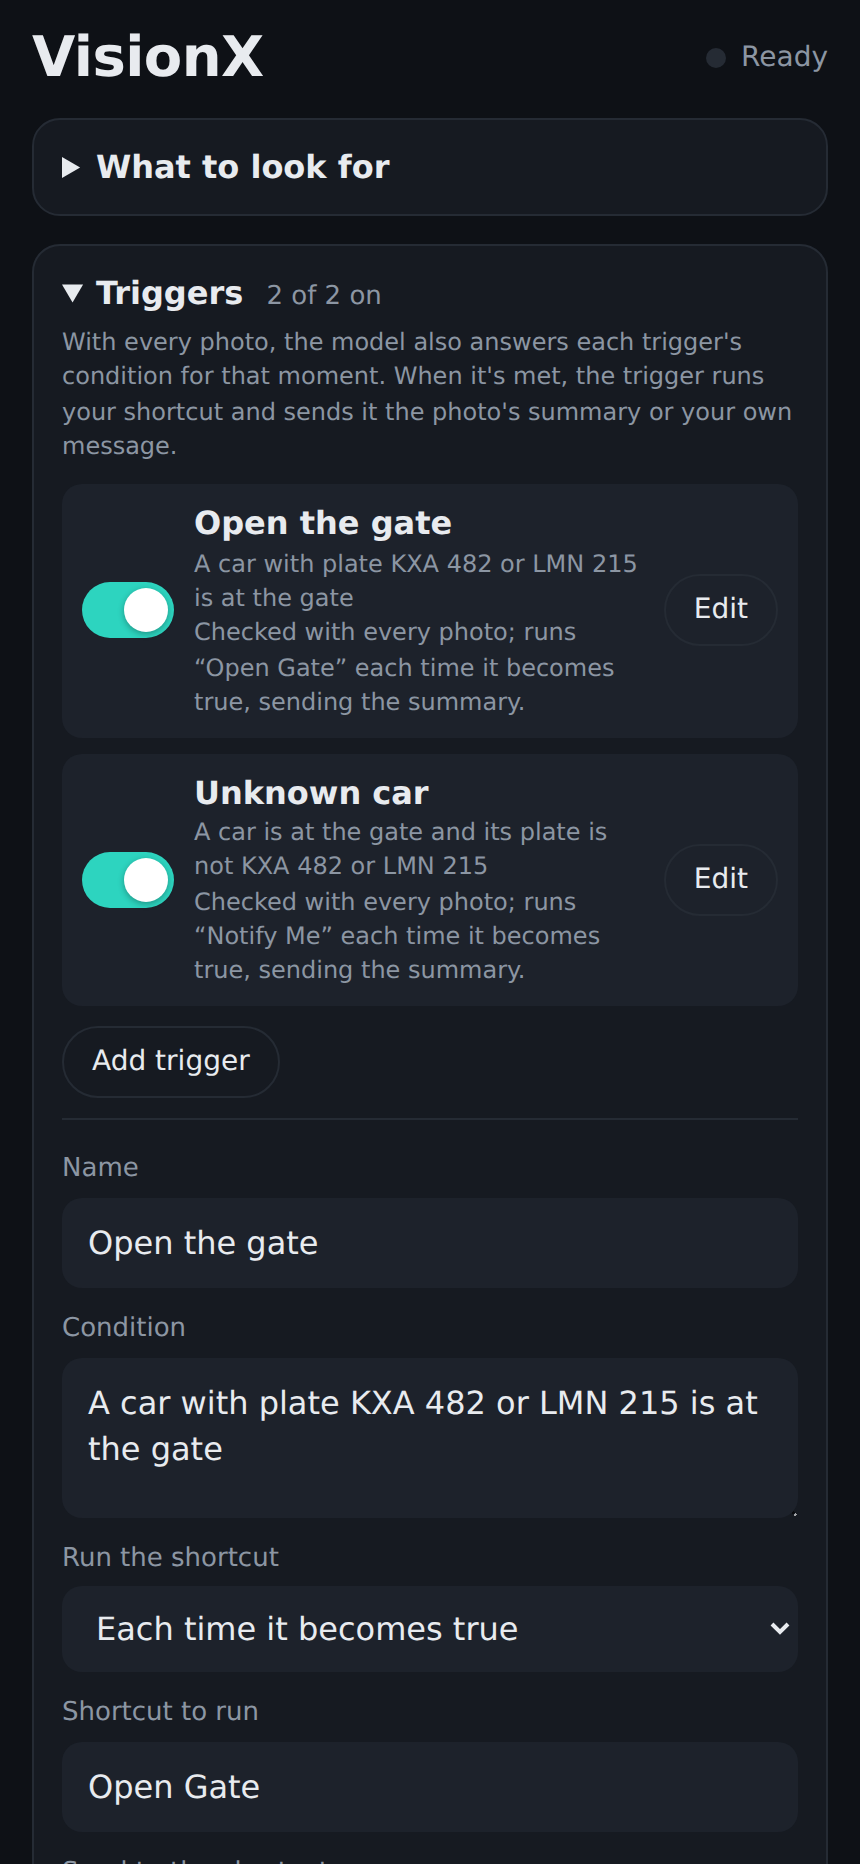
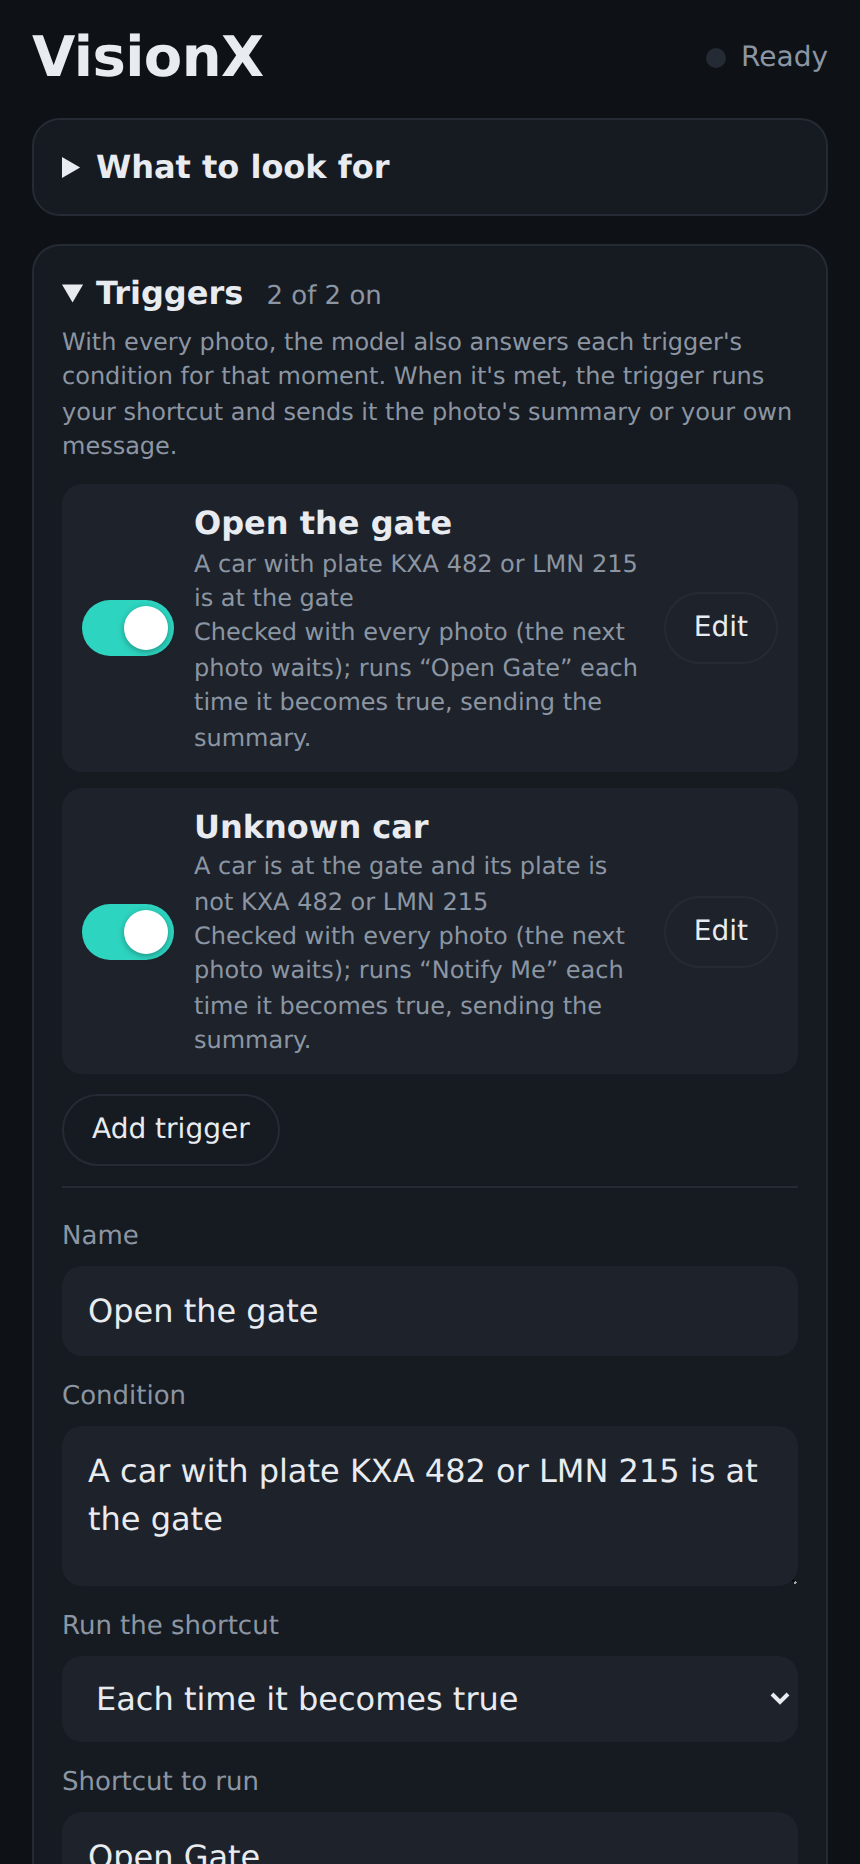
Lock UI zoom; add "after each photo" triggers that the next photo waits for
- Disable pinch and double-tap zoom (viewport, touch-action, gesture events)
- Trigger option "When to check": every few seconds, or after each photo
- After-photo triggers (and all triggers in fresh mode) are checked once the
  photo is analyzed; the next photo waits until their checks and shortcuts finish
- Status shows "Running triggers for photo #n" while waiting

diff --git a/VisionX.js b/VisionX.js
@@ -268,7 +268,7 @@ function buildHTML(boot) {
 <html lang="en">
 <head>
 <meta charset="utf-8">
-<meta name="viewport" content="width=device-width, initial-scale=1, viewport-fit=cover">
+<meta name="viewport" content="width=device-width, initial-scale=1, maximum-scale=1, user-scalable=no, viewport-fit=cover">
 <title>VisionX</title>
 <style>
 :root{
@@ -284,6 +284,8 @@ function buildHTML(boot) {
   }
 }
 *{box-sizing:border-box}
+html,body{touch-action:pan-x pan-y;-webkit-text-size-adjust:100%}
+button,select,input,label,summary{touch-action:manipulation}
 html,body{margin:0;background:var(--paper);color:var(--ink)}
 body{
   font:16px/1.45 -apple-system,system-ui,sans-serif;
@@ -563,6 +565,14 @@ details.dbgCheck>summary{font-size:13px;cursor:pointer}
       <input id="tName" maxlength="40" placeholder="Crowd alert" autocapitalize="sentences">
       <label for="tCond">Condition</label>
       <textarea id="tCond" rows="2" placeholder="More than 3 different people have been seen"></textarea>
+      <div id="tWhenBox">
+        <label for="tWhen">When to check</label>
+        <select id="tWhen">
+          <option value="interval">Every few seconds</option>
+          <option value="photo">After each photo is analyzed</option>
+        </select>
+        <div class="hint" id="tWhenHint"></div>
+      </div>
       <div class="grid" id="tGrid">
         <div id="tEveryBox"><label for="tEvery">Check every (seconds)</label><input id="tEvery" type="number" min="5" step="1" inputmode="numeric"></div>
         <div><label for="tMode">Run the shortcut</label><select id="tMode">
@@ -696,6 +706,11 @@ details.dbgCheck>summary{font-size:13px;cursor:pointer}
 
   <canvas id="cv" hidden></canvas>
 <script>
+// The interface doesn't zoom: block pinch gestures (double-tap zoom is off via touch-action).
+["gesturestart", "gesturechange", "gestureend"].forEach(function (t) {
+  document.addEventListener(t, function (e) { e.preventDefault(); }, { passive: false });
+});
+document.addEventListener("touchmove", function (e) { if (e.touches && e.touches.length > 1) e.preventDefault(); }, { passive: false });
 window.addEventListener("error", function (e) {
   var b = document.getElementById("error");
   if (!b) return;
@@ -742,7 +757,7 @@ const PAGE_JS = String.raw`
     total: BOOT.modelsTotal || 0,
   };
   const FIELDS = ["instructions", "interval", "engine", "shortcut", "checkShortcut", "model", "detail", "maxSide", "facing"];
-  const TRIG_IDS = ["accumulate", "tAdd", "tName", "tCond", "tEvery", "tMode", "tShortcut", "tSend", "tMsg", "tSave", "tDelete", "tCancel"];
+  const TRIG_IDS = ["accumulate", "tAdd", "tName", "tCond", "tWhen", "tEvery", "tMode", "tShortcut", "tSend", "tMsg", "tSave", "tDelete", "tCancel"];
   const DEFAULTS = {
     instructions: "Count the different people you see and summarize them: appearance, what they are doing, and when they first appeared.",
     interval: 10,
@@ -1140,8 +1155,7 @@ const PAGE_JS = String.raw`
       : "On: each photo adds to one running summary for the whole session. Triggers check that summary on their own schedule.";
     $("summaryTitle").textContent = moment ? "Right now" : "Summary so far";
     $("checkBox").classList.toggle("hidden", !isApple() || moment);
-    $("tEveryBox").classList.toggle("hidden", moment);
-    $("tGrid").style.gridTemplateColumns = moment ? "1fr" : "";
+    updateTrigFormUI();
     $("trigHint").textContent = moment
       ? "With every photo, the model also answers each trigger's condition for that moment. When it's met, the trigger runs your shortcut and sends it the photo's summary or your own message."
       : "Every N seconds a trigger asks the model whether its condition is met by the summary so far. When it is, the trigger runs your shortcut and sends it the summary or your own message.";
@@ -1267,6 +1281,7 @@ const PAGE_JS = String.raw`
     renderAll(); tickClock();
 
     sess.stats.requests++;
+    let afterTask = null;
     const dbg = addDebug(sess, frame, "OpenAI");
     const t0 = Date.now();
     try {
@@ -1284,7 +1299,7 @@ const PAGE_JS = String.raw`
       if (result.state) sess.state = result.state;
       if (isMoment()) { sess.state = result.state || {}; sess.summary = result.summary || result.frame; sess.summaryAt = { idx: frame.idx, time: frame.time }; }
       else if (result.summary || result.frame) { sess.summary = result.summary || result.frame; sess.summaryAt = { idx: frame.idx, time: frame.time }; }
-      if (isMoment()) handleMomentVerdicts(sess, result.triggers);
+      afterTask = () => afterPhoto(sess, frame, result.triggers);
       if (sess === S) hideError();
     } catch (e) {
       frame.error = e.message;
@@ -1300,6 +1315,7 @@ const PAGE_JS = String.raw`
       sess.busyIdx = 0;
       if (sess === S) renderAll();
     }
+    if (afterTask) await afterTask();
   }
 
   async function shootApple(sess) {
@@ -1309,6 +1325,7 @@ const PAGE_JS = String.raw`
     sess.busyIdx = frame.idx;
     renderAll(); tickClock();
     sess.stats.requests++;
+    let afterTask = null;
     const dbg = addDebug(sess, frame, "Apple Intelligence");
     const t0 = Date.now();
     try {
@@ -1330,7 +1347,7 @@ const PAGE_JS = String.raw`
       if (result.state) sess.state = result.state;
       if (isMoment()) { sess.state = result.state || {}; sess.summary = result.summary || result.frame; sess.summaryAt = { idx: frame.idx, time: frame.time }; }
       else if (result.summary || result.frame) { sess.summary = result.summary || result.frame; sess.summaryAt = { idx: frame.idx, time: frame.time }; }
-      if (isMoment()) handleMomentVerdicts(sess, result.triggers);
+      afterTask = () => afterPhoto(sess, frame, result.triggers);
       if (sess === S) hideError();
     } catch (e) {
       frame.error = e.message;
@@ -1345,6 +1362,7 @@ const PAGE_JS = String.raw`
       sess.busyIdx = 0;
       if (sess === S) renderAll();
     }
+    if (afterTask) await afterTask();
   }
 
   // ── camera ──
@@ -1960,7 +1978,7 @@ const PAGE_JS = String.raw`
     const now = Date.now();
     sess.trigOrder.forEach((id) => {
       const st = sess.trig[id];
-      if (st.off || st.busy || st.done || now < st.nextAt) return;
+      if (st.off || st.busy || st.done || st.t.when === "photo" || now < st.nextAt) return;
       if (!sess.summary) {
         st.status = "waiting";
         st.nextAt = now + Math.min(st.t.every, 5) * 1000;
@@ -2052,6 +2070,7 @@ const PAGE_JS = String.raw`
 
   // Fresh mode: the photo's own answer says which conditions are met right now.
   function handleMomentVerdicts(sess, verdicts) {
+    const jobs = [];
     sess.trigOrder.forEach((id) => {
       const st = sess.trig[id];
       if (st.off || st.busy || st.done) return;
@@ -2062,11 +2081,34 @@ const PAGE_JS = String.raw`
         return;
       }
       st.busy = true;
-      applyVerdict(sess, st, v)
+      jobs.push(applyVerdict(sess, st, v)
         .catch((e) => { if (!e.cancelled) { st.status = "error"; st.error = e.message; } })
-        .finally(() => { st.busy = false; if (sess === S) renderTriggerStatus(); });
+        .finally(() => { st.busy = false; if (sess === S) renderTriggerStatus(); }));
     });
     if (sess === S) renderTriggerStatus();
+    return Promise.all(jobs);
+  }
+
+  // Build-up mode: triggers set to "after each photo" are checked now, against the new summary.
+  function runPhotoTriggers(sess) {
+    const jobs = [];
+    sess.trigOrder.forEach((id) => {
+      const st = sess.trig[id];
+      if (st.off || st.busy || st.done || st.t.when !== "photo" || !sess.summary) return;
+      jobs.push(runCheck(sess, st));
+    });
+    return Promise.all(jobs);
+  }
+
+  // Runs after a photo is analyzed; the capture loop waits for it before the next photo.
+  async function afterPhoto(sess, frame, verdicts) {
+    if (!sess.running) return;
+    const work = isMoment() ? handleMomentVerdicts(sess, verdicts) : runPhotoTriggers(sess);
+    const waiting = sess.trigOrder.some((id) => sess.trig[id].busy && (isMoment() || sess.trig[id].t.when === "photo"));
+    if (!waiting) return work;
+    sess.triggerWaitIdx = frame.idx;
+    tickClock();
+    try { await work; } finally { sess.triggerWaitIdx = 0; }
   }
 
   function normalizeVerdicts(raw) {
@@ -2112,7 +2154,7 @@ const PAGE_JS = String.raw`
       const next = Math.max(0, Math.ceil((st.nextAt - now) / 1000));
       let line;
       switch (st.status) {
-        case "idle": line = !sess.running ? "Not checked." : isMoment() ? "Checked with every photo. Waiting for the next one." : "First check in " + next + " s."; break;
+        case "idle": line = !sess.running ? "Not checked." : isMoment() ? "Checked with every photo. Waiting for the next one." : st.t.when === "photo" ? "Checked after each photo. Waiting for the next one." : "First check in " + next + " s."; break;
         case "waiting": line = "Waiting for the first summary."; break;
         case "checking": line = "Checking the condition…"; break;
         case "firing": line = "Condition met. Running \u201C" + st.t.shortcut + "\u201D…"; break;
@@ -2126,7 +2168,7 @@ const PAGE_JS = String.raw`
       if (line && !/[.!?…]$/.test(line)) line += ".";
       if (st.off) line = "Off." + (st.fired ? " Ran " + st.fired + (st.fired === 1 ? " time" : " times") + " before." : "");
       else if (st.done) line += " Done for this session.";
-      else if (sess.running && !isMoment() && !st.busy && st.status !== "idle" && st.status !== "waiting") line += " Next check in " + next + " s.";
+      else if (sess.running && !isMoment() && st.t.when !== "photo" && !st.busy && st.status !== "idle" && st.status !== "waiting") line += " Next check in " + next + " s.";
       r.sub.textContent = line;
       r.count.textContent = st.fired ? st.fired + "\u00D7" : "";
       r.count.classList.toggle("hidden", !st.fired);
@@ -2144,7 +2186,7 @@ const PAGE_JS = String.raw`
       const sw = makeSwitch(t.enabled !== false, "Trigger " + t.name + " on", (on) => setTriggerEnabled(t.id, on));
       const txt = el("div", "tText");
       const modeText = { rise: "each time it becomes true", once: "only the first time", every: "every check while true" }[t.mode || "rise"];
-      txt.append(el("b", null, t.name), el("span", "tsub", t.condition), el("span", "tsub", (isMoment() ? "Checked with every photo" : "Checks every " + t.every + " s") + "; runs \u201C" + t.shortcut + "\u201D " + modeText + ", sending " + (t.send === "custom" ? "a custom message" : "the summary") + "."));
+      txt.append(el("b", null, t.name), el("span", "tsub", t.condition), el("span", "tsub", triggerWhenText(t) + "; runs \u201C" + t.shortcut + "\u201D " + modeText + ", sending " + (t.send === "custom" ? "a custom message" : "the summary") + "."));
       const edit = el("button", "chip", "Edit");
       edit.type = "button";
       edit.disabled = S.running;
@@ -2156,12 +2198,32 @@ const PAGE_JS = String.raw`
     $("trigCount").textContent = triggers.length ? on + " of " + triggers.length + " on" : "";
   }
 
+  // Interval only applies to "every few seconds" checks in build-up mode.
+  function updateTrigFormUI() {
+    const moment = isMoment();
+    const perPhoto = moment || $("tWhen").value === "photo";
+    $("tWhenBox").classList.toggle("hidden", moment);
+    $("tEveryBox").classList.toggle("hidden", perPhoto);
+    $("tGrid").style.gridTemplateColumns = perPhoto ? "1fr" : "";
+    $("tWhenHint").textContent = $("tWhen").value === "photo"
+      ? "Checked right after every photo, against the updated summary. The next photo waits until this check and its shortcut have finished."
+      : "Checked on its own timer, independent of photos.";
+  }
+
+  function triggerWhenText(t) {
+    if (isMoment()) return "Checked with every photo (the next photo waits)";
+    if (t.when === "photo") return "Checked after each photo (the next photo waits)";
+    return "Checks every " + t.every + " s";
+  }
+
   function openTriggerForm(id) {
-    const t = triggers.find((x) => x.id === id) || { name: "", condition: "", every: 30, mode: "rise", shortcut: "", send: "summary", message: "" };
+    const t = triggers.find((x) => x.id === id) || { name: "", condition: "", every: 30, when: "interval", mode: "rise", shortcut: "", send: "summary", message: "" };
     editingTrigger = id || null;
     $("tName").value = t.name;
     $("tCond").value = t.condition;
     $("tEvery").value = String(t.every);
+    $("tWhen").value = t.when === "photo" ? "photo" : "interval";
+    updateTrigFormUI();
     $("tMode").value = t.mode || "rise";
     $("tShortcut").value = t.shortcut;
     $("tSend").value = t.send === "custom" ? "custom" : "summary";
@@ -2176,6 +2238,7 @@ const PAGE_JS = String.raw`
   function wireTriggers() {
     $("tAdd").addEventListener("click", () => openTriggerForm(null));
     $("tCancel").addEventListener("click", () => $("trigForm").classList.add("hidden"));
+    $("tWhen").addEventListener("change", updateTrigFormUI);
     $("tSend").addEventListener("change", () => {
       const custom = $("tSend").value === "custom";
       $("tMsgBox").classList.toggle("hidden", !custom);
@@ -2192,7 +2255,7 @@ const PAGE_JS = String.raw`
       const send = $("tSend").value;
       const message = $("tMsg").value.trim();
       if (send === "custom" && !message) { $("tHint").textContent = "Write the message to send, or choose to send the capture summary."; return $("tMsg").focus(); }
-      const data = { name: name, condition: condition, shortcut: shortcut, every: every, mode: $("tMode").value, send: send, message: message };
+      const data = { name: name, condition: condition, shortcut: shortcut, every: every, when: $("tWhen").value, mode: $("tMode").value, send: send, message: message };
       const existing = triggers.find((x) => x.id === editingTrigger);
       if (existing) Object.assign(existing, data);
       else triggers.push(Object.assign({ id: "t-" + Date.now().toString(36), enabled: true }, data));
@@ -2480,6 +2543,7 @@ const PAGE_JS = String.raw`
     runDueTriggers(S);
     if (S.trigOrder.length) renderTriggerStatus();
     if (S.busyIdx) setStatus((isApple() ? "Running the shortcut for photo #" : "Analyzing photo #") + S.busyIdx + "…");
+    else if (S.triggerWaitIdx) setStatus("Running triggers for photo #" + S.triggerWaitIdx + "…");
     else if (S.nextAt) setStatus("Next photo in " + Math.max(0, Math.ceil((S.nextAt - Date.now()) / 1000)) + " s");
   }
 

diff --git a/README.md b/README.md
@@ -79,7 +79,12 @@ The **Build up over the session** switch controls whether photos add to one summ
 
 ### Triggers
 
-Each trigger has a name, a condition, the shortcut to run, and when to run it:
+Each trigger has a name, a condition, the shortcut to run, and **when to check**:
+
+- **Every few seconds**: on its own timer, independent of photos.
+- **After each photo is analyzed**: right after every photo, against the updated summary. The next photo isn't taken until the check and any shortcut it runs have finished. In fresh mode, every trigger works this way.
+
+And **when to run** the shortcut:
 
 - **Each time it becomes true** (default): runs once, then waits until the condition is false again.
 - **Only the first time**: runs at most once per session.
